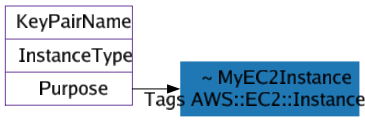
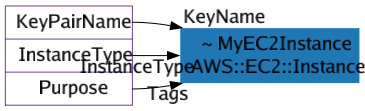
Generate edges for all changes
graphviz/cgraph allows to have multiple edges between the same node pair in a non-strict
graph, as long as the edges have distinct names. Unfortunately the version of graphviz go-graphviz
embeds has a bug in exactly the logic for looking up the edges, so this commit also switches
out the version to a fork that has a suitable fix for the problem.

See https://gitlab.com/graphviz/graphviz/-/issues/1191 for the original upstream problem, and
https://github.com/goccy/go-graphviz/issues/52 for the issue in go-graphviz.

Fixes https://github.com/ankon/explain-cloudformation-changeset/issues/6

diff --git a/util/graph.go b/util/graph.go
@@ -450,16 +450,25 @@ func (csg *changeSetGraph) populateGraph(svc cloudformationClient, resp *cloudfo
 		}
 
 		for _, changeCause := range changeCauseNodes {
-			edgeName := string(changeCause.detail.ChangeSource)
-			log.Infof("creating edge %q from %q to %q", edgeName, changeCause.node.Get("id"), changedNode.Get("id"))
+			sourceNodeId := changeCause.node.Name()
+			var sourcePort string
+			if changeCause.port != nil {
+				sourcePort = *changeCause.port
+			}
+			targetNodeId := changedNode.Name()
+			targetName := aws.ToString(changeCause.detail.Target.Name)
+
+			// Calculate a unique-enough name for this edge
+			edgeName := fmt.Sprintf(":%s_%s_%s", sourcePort, string(changeCause.detail.ChangeSource), targetName)
+			log.Infof("creating edge %q from %q to %q", edgeName, sourceNodeId, targetNodeId)
 
 			e, err := csg.graphs[stackName].CreateEdge(edgeName, changeCause.node, changedNode)
 			if err != nil {
 				return fmt.Errorf("cannot make edge, %v", err)
 			}
 
-			if changeCause.port != nil {
-				e.SetTailPort(*changeCause.port)
+			if sourcePort != "" {
+				e.SetTailPort(sourcePort)
 			}
 
 			switch changeCause.detail.Evaluation {
@@ -471,7 +480,6 @@ func (csg *changeSetGraph) populateGraph(svc cloudformationClient, resp *cloudfo
 				e.SetTooltip("Dynamic evaluation")
 			}
 
-			targetName := aws.ToString(changeCause.detail.Target.Name)
 			// XXX: "Parameters" is pretty much the default for nested stacks, and just adds noise. But, is this check
 			//      enough, or could this now catch and hide user-defined things called
 			if changeCause.detail.Target.Attribute == types.ResourceAttributeProperties && targetName != "Parameters" {
